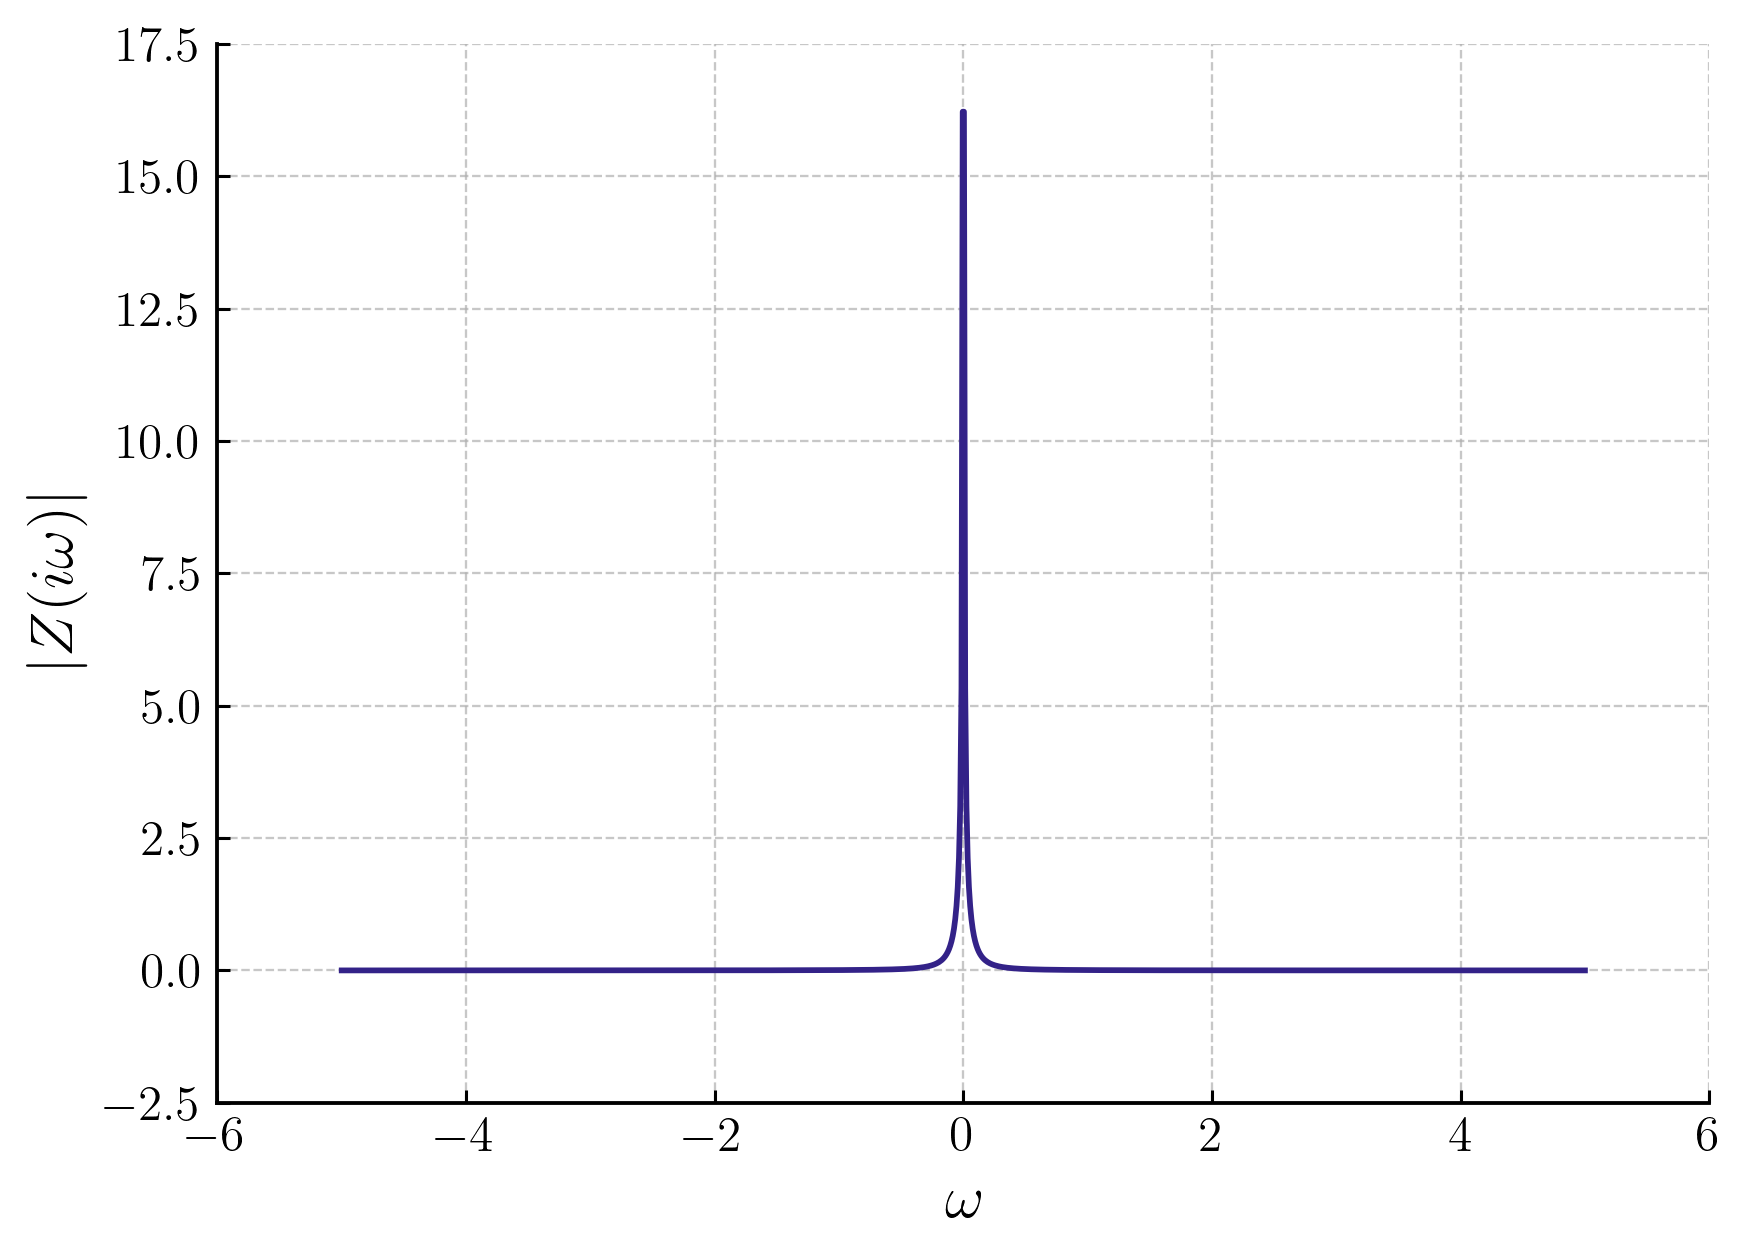
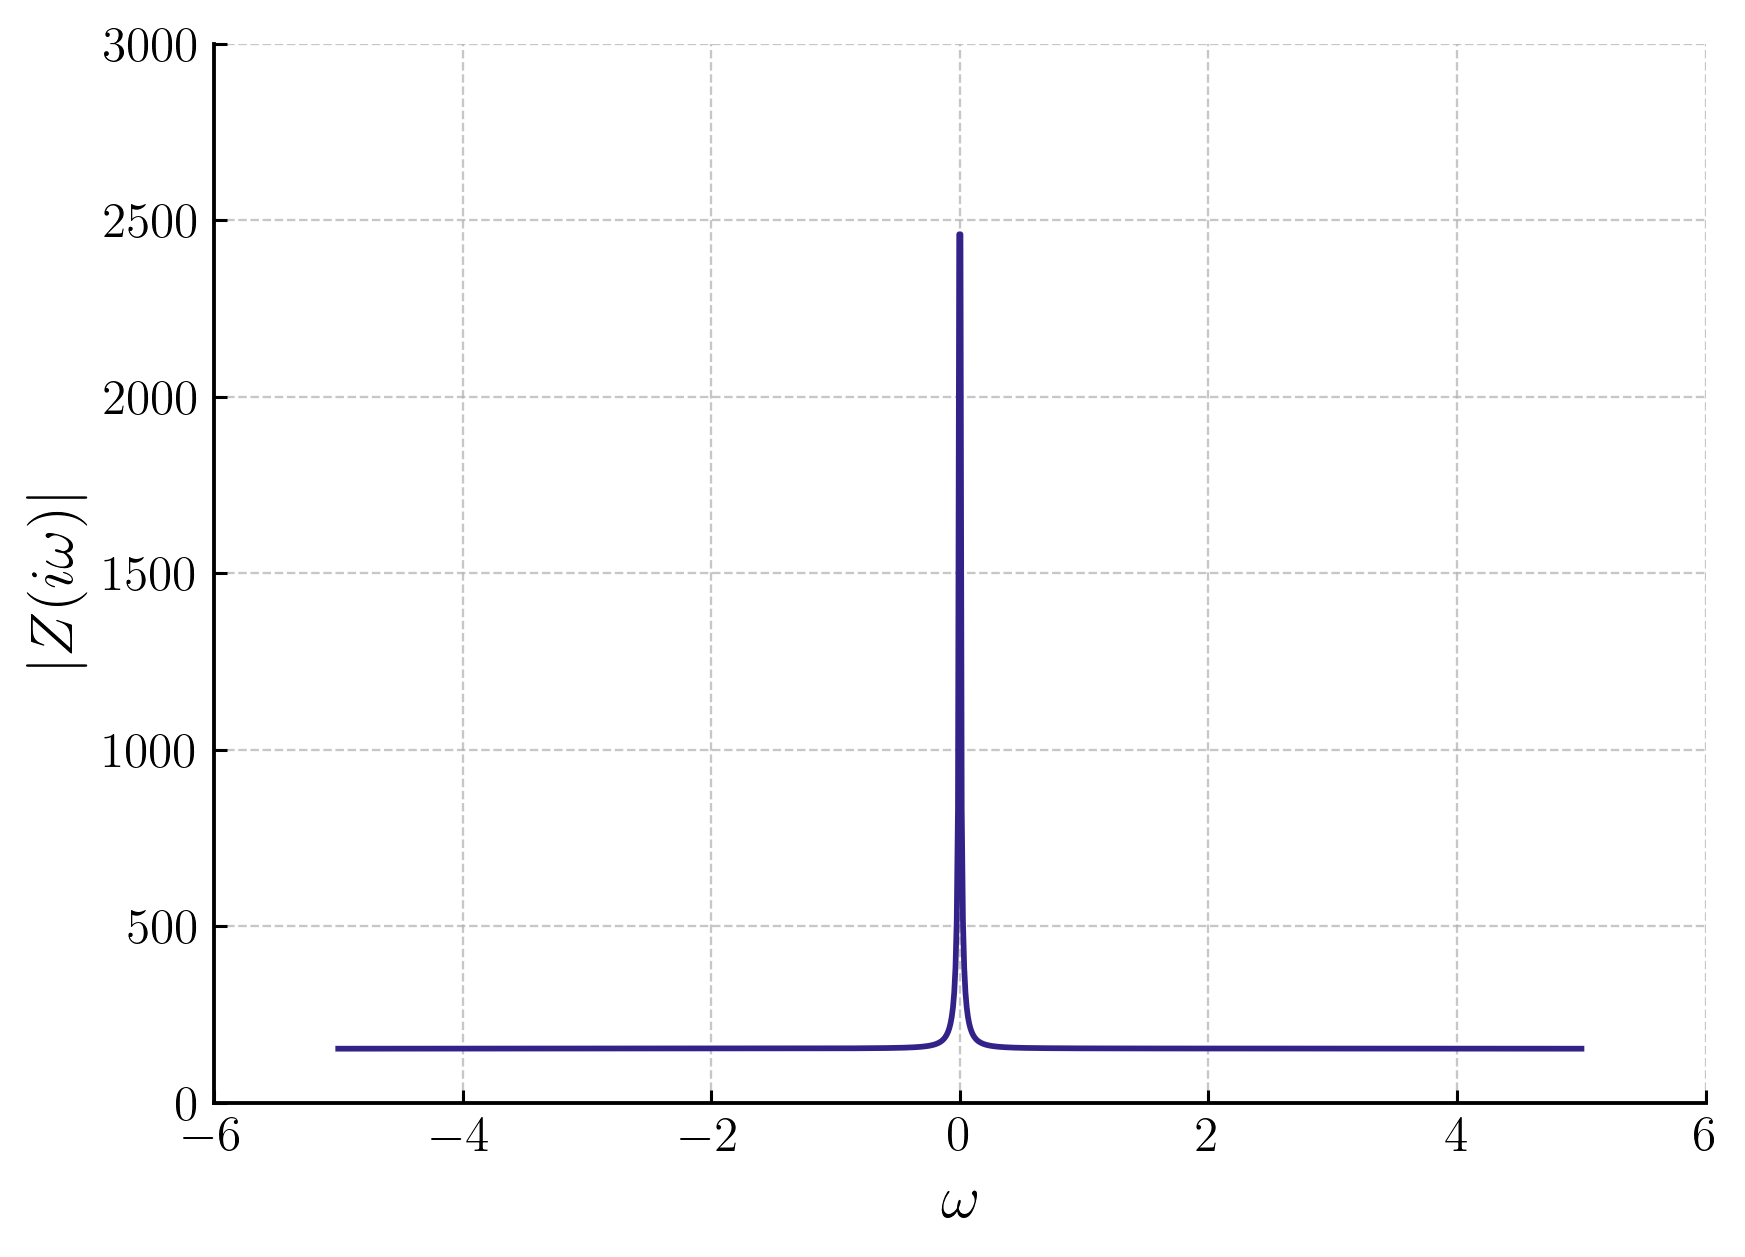
fix zptf

diff --git a/npre560/hw/hw4/hw04-template-1.tex b/npre560/hw/hw4/hw04-template-1.tex
@@ -232,7 +232,27 @@ setspace, wasysym, mathrsfs}
         inversion of the zero power transfer function, $Z(s)$ to obtain the 
         impulse response function $\mathscr{Z}(t)$.
                 \begin{solution}
-                        solution here
+                    The zero power transfer function is
+                    \[
+                        Z(s) = \frac{1}{s}\left[\Lambda +
+                            \sum_{j=1}^{6}\frac{\beta_{j}}{s +
+                        \lambda_{j}}\right]^{-1}
+                    \]
+                    The impulse response function is
+                    \[
+                        \mathscr{Z}(t) = \frac{1}{\Lambda} +
+                        \sum_{j=2}^{7}\frac{e^{s_{j}t}}{s_{j}\left[\Lambda +
+                        \sum_{i=1}^{6} \frac{\beta_{i} \lambda_{i}}{(s_{j} +
+                        \lambda_{i})^{2}} \right]}
+                    \]
+                    To get $\mathscr{Z}(t)$ from $Z(s)$, we need to perform an
+                    inverse Laplace transform on $Z(s)$. The inverse Laplace
+                    transform has the form:
+                    \[
+                        f(t) = \frac{1}{2\pi i} \int_{c-i\infty}^{c+\infty} e^{st} g(s)
+                        ds
+                    \]
+                    \ldots
                 \end{solution}
        
         % ---------------------------------------------
@@ -244,7 +264,7 @@ setspace, wasysym, mathrsfs}
                     The one-group zero-power transfer function is
                     \[
                         Z(s) = \frac{1}{s}\left[\Lambda + \frac{\beta}{s +
-                        \lambda}\right]
+                        \lambda}\right]^{-1}
                     \]
                     From D\&H 6.II.D.3, we have that the amplitude is
                     $|Z(i\omega)| = \sqrt{\text{Re}^{2}[Z(i\omega)] +
